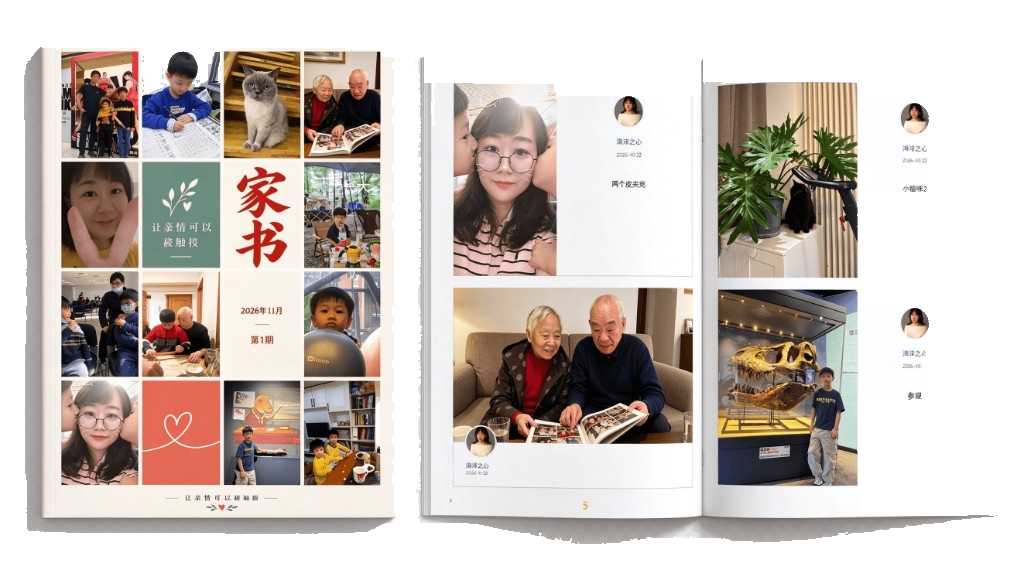
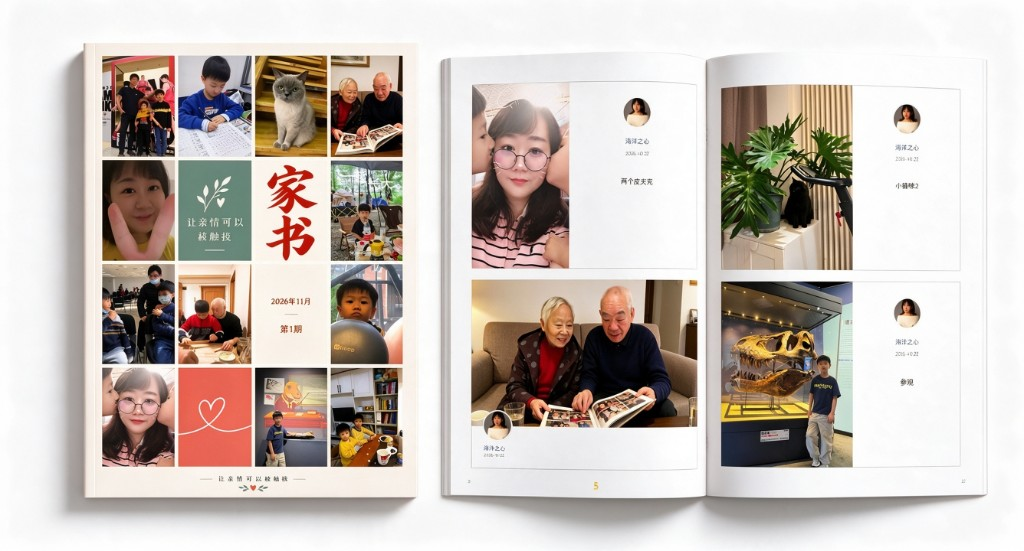
feature: 调整官网样刊对话框

diff --git a/src/views/home/HomeView.vue b/src/views/home/HomeView.vue
@@ -57,7 +57,7 @@
         <p class="section-desc">照片、文字和一家人的近况，翻开就能看见。</p>
         <div class="sample-layout">
           <button class="book" type="button" aria-label="在线翻看样刊" @click="openSample(1)">
-            <img src="/images/home/sample-book.png?v=3" alt="家书样刊：封面与内页" />
+            <img src="/images/home/sample-book.png?v=4" alt="家书样刊：封面与内页" />
           </button>
           <div class="sample-points">
             <article>
@@ -193,22 +193,35 @@
         <div class="wrap">
         <h2 class="section-title">选一份家书，<span class="title-break">把全家的近况寄回家</span></h2>
         <p class="section-desc">纸质月刊按月寄出。开通一份，全家都可以一起上传。</p>
+        <div class="pricing-layout">
+        <aside class="plan-benefits">
+          <h3>每份订阅都包含</h3>
+          <p>不论月卡、季卡还是年卡，权益都一样。</p>
+          <ul class="plan-perks">
+            <li v-for="perk in planPerks" :key="perk"><i>✓</i>{{ perk }}</li>
+          </ul>
+        </aside>
         <div class="plans">
-          <article v-for="plan in plans" :key="plan.name" class="price-card">
+          <article
+            v-for="plan in plans"
+            :key="plan.name"
+            class="price-card"
+            :class="{ featured: !!plan.badge }"
+          >
             <header class="price-head">
-              <p class="price-term">{{ plan.term }}</p>
-              <span v-if="plan.badge" class="price-badge">{{ plan.badge }}</span>
+              <div class="price-term-wrap">
+                <p class="price-term">{{ plan.term }}</p>
+                <span v-if="plan.badge" class="price-badge">{{ plan.badge }}</span>
+              </div>
             </header>
             <div class="price-main">
               <h3>{{ plan.name }}</h3>
               <p class="amount"><span>¥</span><strong>{{ plan.price }}</strong></p>
             </div>
             <p class="price-note">约合每月 <b>¥{{ plan.monthly }}</b></p>
-            <ul class="perks">
-              <li v-for="perk in planPerks" :key="perk"><i>✓</i>{{ perk }}</li>
-            </ul>
             <button class="btn solid plan-btn" type="button" @click="openModal('wechat')">开通{{ plan.name }}</button>
           </article>
+        </div>
         </div>
         </div>
       </section>
@@ -984,7 +997,7 @@ onBeforeUnmount(() => {
 .section { padding: 88px 0; }
 .band { width: 100%; }
 .band-hero { background: #fff9f3; }
-.band-sample { background: #f3eee4; }
+.band-sample { background: #fefefe; }
 .band-how { background: #fff4e4; }
 .band-reviews { background: #f2f6f1; }
 .band-pricing { background: #fff6ea; }
@@ -1210,11 +1223,70 @@ onBeforeUnmount(() => {
 .quote-dots button.on { background: #e2b15a; }
 .review-note { margin-top: 16px !important; text-align: center; color: #a8988c; font-size: 13px; }
 
+.pricing-layout {
+  display: grid;
+  grid-template-columns: minmax(260px, 340px) minmax(0, 1fr);
+  gap: 28px;
+  align-items: stretch;
+  margin-top: 36px;
+}
+.plan-benefits {
+  display: flex;
+  flex-direction: column;
+  padding: 28px 26px;
+  border-radius: 20px;
+  background: #fffdf9;
+  border: 1px solid #f0e4d4;
+}
+.plan-benefits h3 {
+  margin: 0;
+  color: #241c16;
+  font-size: 22px;
+  font-weight: 700;
+  letter-spacing: .04em;
+}
+.plan-benefits > p {
+  margin: 8px 0 0;
+  color: #9a8878;
+  font-size: 14px;
+  line-height: 1.6;
+}
+.plan-perks {
+  list-style: none;
+  display: grid;
+  gap: 16px;
+  margin: 22px 0 0;
+  padding: 0;
+}
+.plan-perks li {
+  display: flex;
+  align-items: flex-start;
+  gap: 12px;
+  margin: 0;
+  color: #3f352f;
+  font-size: 16px;
+  font-weight: 600;
+  line-height: 1.5;
+}
+.plan-perks i {
+  width: 22px;
+  height: 22px;
+  display: grid;
+  place-items: center;
+  flex: none;
+  margin-top: 1px;
+  border-radius: 50%;
+  background: #fbc133;
+  color: #2a2118;
+  font-style: normal;
+  font-size: 12px;
+  font-weight: 700;
+}
 .plans {
-  margin: 42px auto 0;
+  margin: 0;
   display: grid;
   grid-template-columns: repeat(3, minmax(0, 1fr));
-  gap: 22px;
+  gap: 14px;
   align-items: stretch;
 }
 .price-card {
@@ -1222,30 +1294,36 @@ onBeforeUnmount(() => {
   display: flex;
   flex-direction: column;
   min-width: 0;
-  padding: 26px 24px 22px;
-  background:
-    linear-gradient(180deg, rgba(251, 193, 51, .32), rgba(251, 193, 51, 0) 108px),
-    #fffdf9;
-  border: 1px solid #fbc133;
-  border-radius: 22px;
-  box-shadow:
-    inset 0 1px 0 rgba(255, 255, 255, .95),
-    0 0 0 1px #fbc133,
-    0 22px 44px rgba(210, 160, 40, .16);
+  padding: 22px 22px 20px;
+  background: #fffdf9;
+  border: 1px solid #f0e4d4;
+  border-radius: 18px;
+  box-shadow: 0 10px 28px rgba(90, 60, 30, .05);
+}
+.price-card.featured {
+  border-color: #f3c15a;
+  box-shadow: 0 14px 32px rgba(210, 160, 40, .12);
 }
 .price-head {
   display: flex;
-  align-items: center;
+  align-items: flex-start;
   justify-content: space-between;
   gap: 12px;
-  min-height: 28px;
+  min-height: 26px;
+}
+.price-term-wrap {
+  display: flex;
+  flex-wrap: wrap;
+  align-items: center;
+  gap: 8px;
+  min-width: 0;
 }
 .price-term {
   margin: 0;
   color: #a15a32;
   font-size: 13px;
   font-weight: 700;
-  letter-spacing: .12em;
+  letter-spacing: .08em;
 }
 .price-badge {
   flex: none;
@@ -1258,89 +1336,58 @@ onBeforeUnmount(() => {
   letter-spacing: .04em;
   line-height: 1;
 }
-.price-card h3 {
-  margin: 14px 0 0;
-  color: #241c16;
-  font-size: 28px;
-  font-weight: 700;
-  letter-spacing: .08em;
-  line-height: 1;
+.price-main {
+  display: flex;
+  align-items: flex-end;
+  justify-content: space-between;
+  gap: 12px;
+  margin-top: 18px;
 }
-.price-card h3::after {
-  content: "";
-  display: block;
-  width: 36px;
-  height: 2px;
-  margin-top: 14px;
-  border-radius: 2px;
-  background: #fbc133;
+.price-card h3 {
+  margin: 0;
+  color: #241c16;
+  font-size: 26px;
+  font-weight: 700;
+  letter-spacing: .06em;
+  line-height: 1;
 }
 .page .price-card .amount {
   display: flex;
   align-items: flex-end;
   gap: 2px;
-  margin: 18px 0 0;
-  color: #fbc133;
+  margin: 0;
+  color: #e2a322;
 }
 .price-card .amount span {
-  margin-bottom: 8px;
-  font-size: 22px;
+  margin-bottom: 5px;
+  font-size: 18px;
   font-weight: 700;
   line-height: 1;
 }
 .price-card .amount strong {
-  font-size: 58px;
+  font-size: 44px;
   font-weight: 700;
-  line-height: .82;
-  letter-spacing: -.04em;
+  line-height: .85;
+  letter-spacing: -.03em;
   font-variant-numeric: tabular-nums;
 }
 .price-note {
-  margin: 12px 0 0;
+  margin: 35px 0 0 !important;
   color: #9a8878;
-  font-size: 14px;
+  font-size: 13px;
   font-weight: 600;
+  text-align: center;
+  line-height: 1.3;
 }
 .price-note b {
-  color: #fbc133;
+  color: #c4892a;
   font-weight: 700;
-}
-.price-card .perks {
-  list-style: none;
-  display: grid;
-  gap: 0;
-  margin: 20px 0 22px;
-  padding: 4px 0 0;
-  border-top: 1px solid #f4e8da;
-}
-.price-card .perks li {
-  display: flex;
-  align-items: center;
-  gap: 10px;
-  padding: 11px 0;
-  border-bottom: 1px solid #f7efe6;
-  color: #4a4038;
-  font-size: 14px;
-  line-height: 1.45;
-}
-.price-card .perks i {
-  width: 18px;
-  height: 18px;
-  display: grid;
-  place-items: center;
-  border-radius: 50%;
-  background: #fbc133;
-  color: #2a2118;
-  font-style: normal;
-  font-size: 11px;
-  font-weight: 700;
-  flex: none;
 }
 .price-card .plan-btn {
   width: 100%;
-  margin-top: auto;
-  padding: 14px 18px;
-  box-shadow: 0 10px 22px rgba(210, 160, 40, .24);
+  margin-top: 22px;
+  padding: 13px 18px;
+  box-shadow: none;
 }
 
 .faq-groups { max-width: 860px; margin: 42px auto 0; display: grid; gap: 42px; }
@@ -1566,7 +1613,7 @@ footer { border-top: 1px solid #efe4d6; padding: 36px 0 28px; }
   }
   .nav-links.open { display: grid; }
   .nav-links a, .nav-links button { text-align: left; padding: 13px 8px; border-bottom: 1px solid #f6eee6; font-size: 15px; }
-  .hero, .sample-layout, .plans { grid-template-columns: minmax(0, 1fr); }
+  .hero, .sample-layout, .plans, .pricing-layout { grid-template-columns: minmax(0, 1fr); }
   .steps {
     flex-direction: column;
     align-items: center;
@@ -1585,24 +1632,22 @@ footer { border-top: 1px solid #efe4d6; padding: 36px 0 28px; }
   .faq-groups { gap: 34px; }
   .faq-cta { align-items: flex-start; flex-direction: column; padding: 26px; }
   .book { min-height: 0; }
+  .pricing-layout { gap: 18px; margin-top: 28px; }
+  .plan-benefits,
   .plans {
+    margin-inline: auto;
+  }
+  .plan-benefits {
     width: 70vw;
     max-width: 70vw;
-    margin-inline: auto;
-    gap: 16px;
   }
-  .price-card { padding: 18px 14px 16px; }
-  .price-main {
-    display: flex;
-    align-items: baseline;
-    justify-content: space-between;
-    gap: 8px;
-    margin-top: 12px;
+  .plans {
+    width: 60vw;
+    max-width: 60vw;
+    gap: 14px;
   }
-  .price-card h3 { margin: 0; }
-  .price-card h3::after { display: none; }
-  .page .price-card .amount { margin: 0; }
-  .price-card .amount span { margin-bottom: 2px; font-size: 16px; }
+  .price-card { padding: 18px 16px 16px; }
+  .price-card .amount span { margin-bottom: 3px; font-size: 16px; }
   .price-card .amount strong { font-size: 36px; }
   .foot { width: min(1120px, calc(100% - 32px)); }
 }
